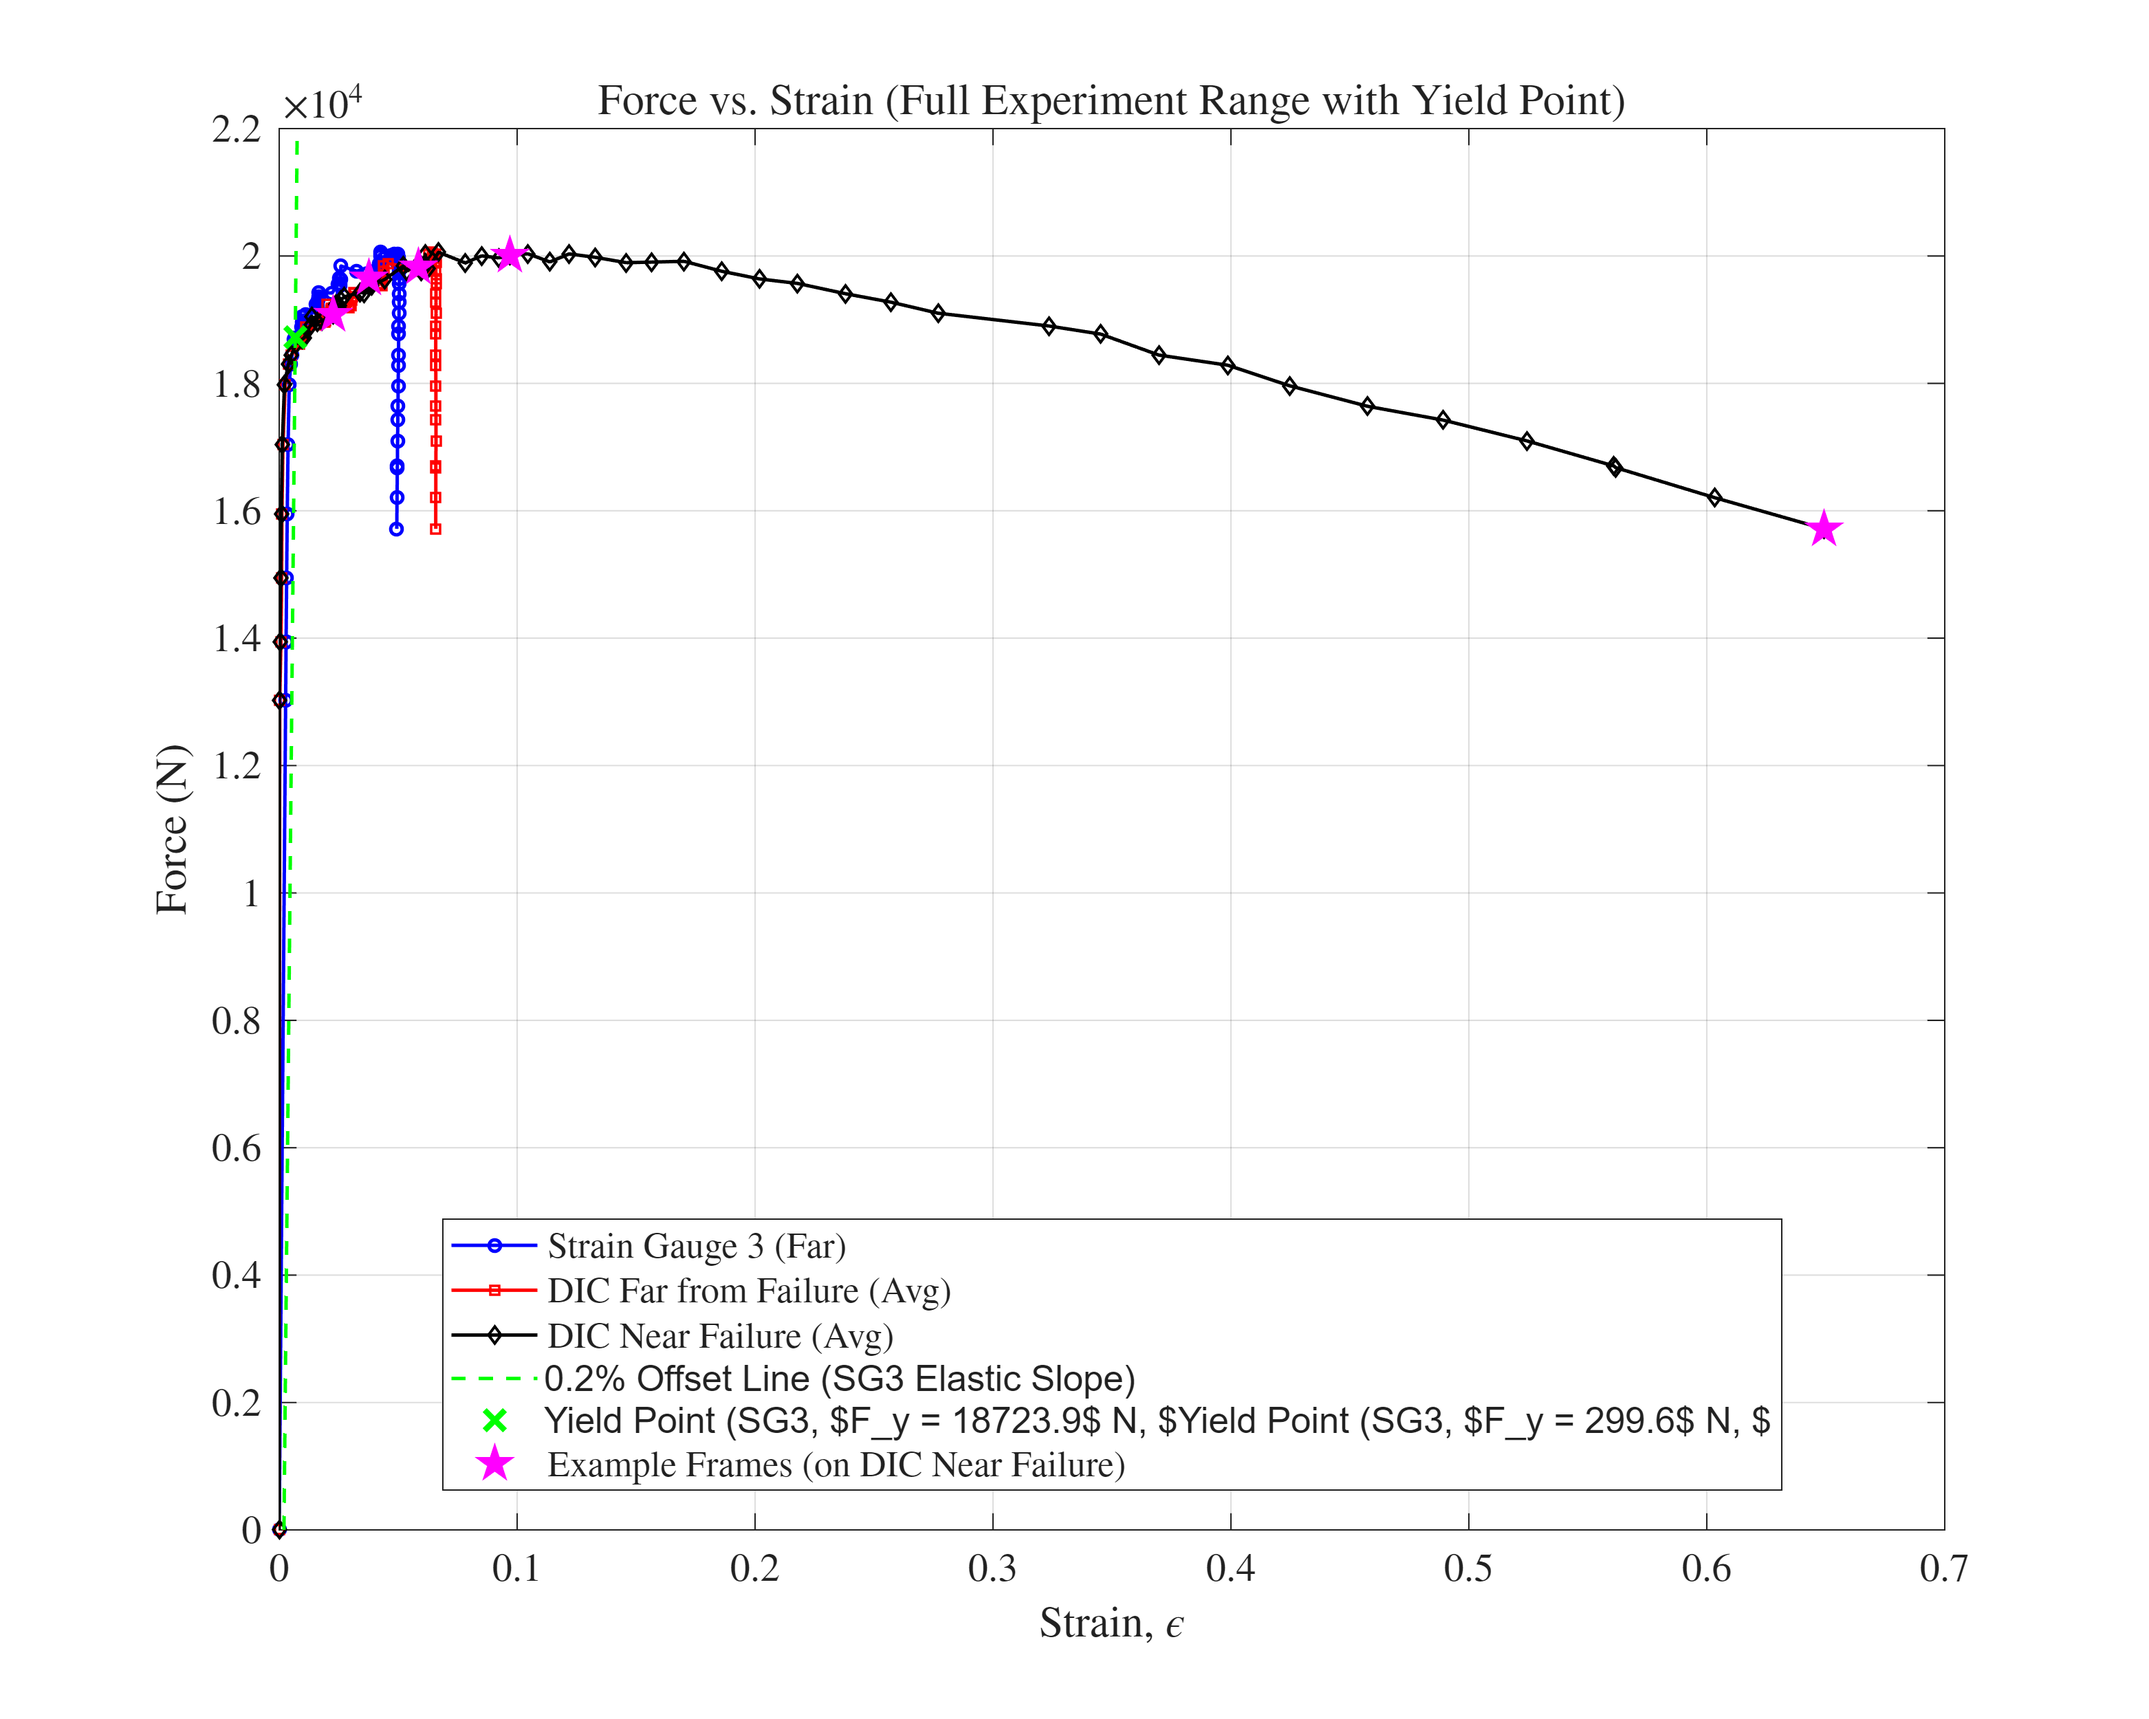
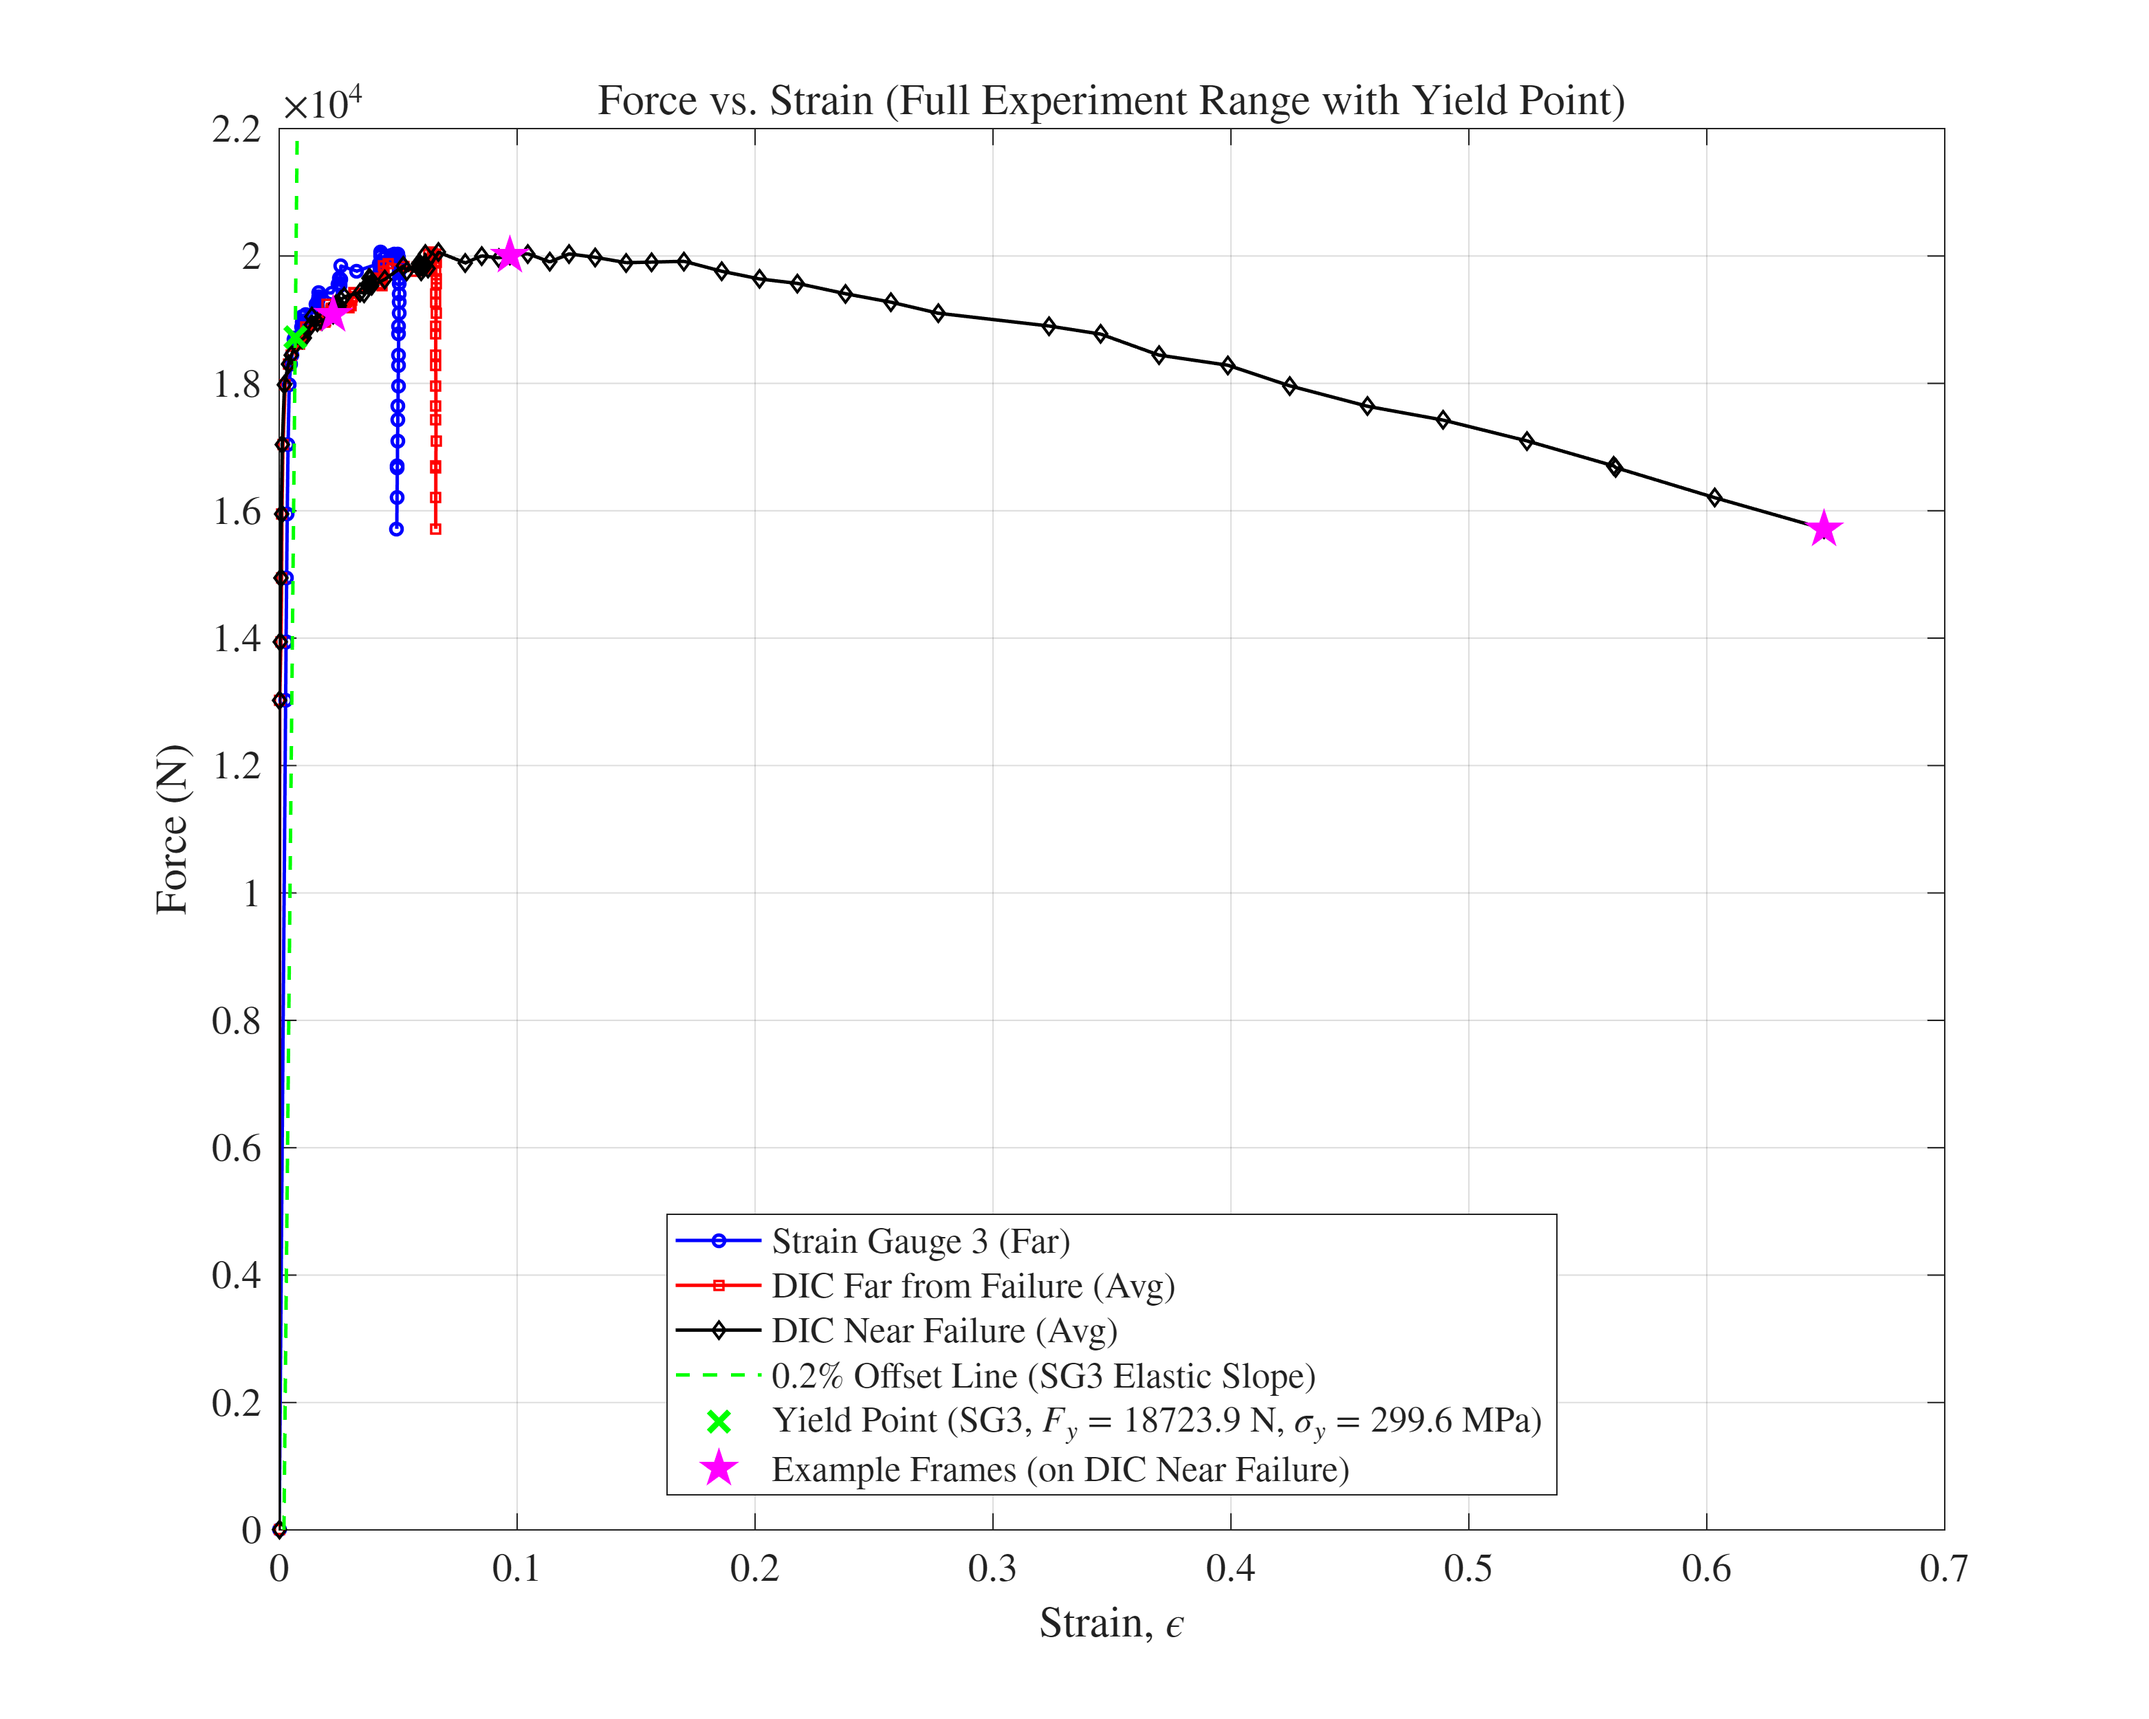
Refactor analyze_my_dogbone.m: streamline example indices, enhance plot labels with LaTeX formatting, and implement inset plot for force zoom in Figure 2. Update figures for improved clarity.

Changed region(s): [[0.2173, 0.7176, 0.8381, 0.8736], [0.1552, 0.156, 0.1862, 0.1872]]

diff --git a/Technion/LMA1/LMA1_L001/code/strains-2/analyze_my_dogbone.m b/Technion/LMA1/LMA1_L001/code/strains-2/analyze_my_dogbone.m
@@ -90,7 +90,7 @@ fprintf('Using average of Strain Gauge SG2 and SG3 for analysis in Part 1 & 2.\n
 
 % Print frame and load info for selected examples
 % USER ACTION: Adjust these indices if needed, ensure they are <= N_analysis
-example_indices = [3, 30, 60, 85, min(N_analysis,40), min(N_analysis,50)]; % Adjusted example indices
+example_indices = [3, 30, 60, 85]; % Adjusted example indices
 example_indices(example_indices > N_analysis) = []; % Remove indices out of bounds
 fprintf('\n--- Selected Frames and Corresponding Loads ---\n');
 if ~isempty(example_indices)
@@ -361,7 +361,7 @@ end
 figure; hold on; grid on; box on;
 % Plot force-strain data for the elastic region for Figure 1
 plot(strain_g_elastic, F_elastic, 'bo', 'MarkerSize', 4, 'DisplayName', 'Strain Gauge Data (Elastic)'); % Simplified name
-plot(strain_d_elastic, F_elastic, 'ro', 'MarkerSize', 4, 'DisplayName', 'DIC Data (Elastic, eyy avg)'); % Simplified name, assuming 'eyy' is fine, if not, remove too
+plot(strain_d_elastic, F_elastic, 'ro', 'MarkerSize', 4, 'DisplayName', 'DIC Data (Elastic, $\varepsilon_{yy}$ avg)'); % Simplified name, assuming 'eyy' is fine, if not, remove too
 
 % Plot the force-strain fit line based on the elastic region only for Figure 1
 % The legend will show E (from stress-strain), though plot shows dF/dEpsilon visually
@@ -380,10 +380,19 @@ if ~isempty(highlight_points_strain_g_elastic_fig1) && ~isempty(highlight_points
         'MarkerFaceColor', 'm', 'MarkerSize', 10, 'DisplayName', 'Example Frames');
 end
 
-xlabel('Strain, $\epsilon$','Interpreter','latex');
+xlabel('Strain, $\varepsilon$','Interpreter','latex');
 ylabel('Force (N)','Interpreter','latex');
 title(sprintf('Force vs. Strain (Elastic Region, $N_{elastic}=%d$)', N_elastic),'Interpreter','latex');
-legend('Location', 'best', 'Interpreter', 'latex');
+
+% Manually center the legend for Figure 1
+lgd1 = legend('show', 'Interpreter', 'latex'); % Create legend and get handle
+lgd1.Units = 'normalized'; % Ensure position is normalized to axes
+current_width_lgd1 = lgd1.Position(3);
+current_height_lgd1 = lgd1.Position(4);
+new_left_lgd1 = (1 - current_width_lgd1) / 2;
+new_bottom_lgd1 = (1 - current_height_lgd1) / 2;
+lgd1.Position = [new_left_lgd1, new_bottom_lgd1, current_width_lgd1, current_height_lgd1];
+
 set(gca, 'FontSize', 14);
 hold off;
 
@@ -657,7 +666,9 @@ else
     end
     % --- End Fig 2 DIC Near Highlight Prep ---
 
-    figure; hold on; grid on; box on;
+    figure; % Create Figure 2
+    fig2_handle = gcf; % Get handle immediately after creation
+    hold on; grid on; box on;
     
     % Plot the average strain gauge data from Part 1 (from which yield is determined) - REMOVED AS PER USER REQUEST
     % handle_avg_gauge_data_fig2 = [];
@@ -753,10 +764,13 @@ else
 
     % Plot 0.2% offset line and yield point if calculated (SG3 based)
     if ~isnan(F_yield_sg3_fig2) && ~isempty(epsilon_offset_line_sg3_fig2) && ~isempty(force_offset_line_sg3_fig2) && ~isnan(intersect_strain_sg3_fig2)
-        plot(epsilon_offset_line_sg3_fig2, force_offset_line_sg3_fig2, 'g--', 'LineWidth', 1.2, 'DisplayName', '0.2% Offset Line (SG3 Elastic Slope)');
+        plot(epsilon_offset_line_sg3_fig2, force_offset_line_sg3_fig2, 'g--', 'LineWidth', 1.2, 'DisplayName', '0.2\% Offset Line (SG3 Elastic Slope)');
         sigma_y_sg3_display_MPa = (F_yield_sg3_fig2 / A_m2) / 1e6;
+        fy_val_str_fig2 = sprintf('$F_y = %.1f$ N', F_yield_sg3_fig2);
+        sigmay_val_str_fig2 = sprintf('$\\sigma_y = %.1f$ MPa', sigma_y_sg3_display_MPa);
+        display_name_yield_fig2 = ['Yield Point (SG3, ', fy_val_str_fig2, ', ', sigmay_val_str_fig2, ')'];
         plot(intersect_strain_sg3_fig2, F_yield_sg3_fig2, 'gx', 'MarkerSize', 10, 'LineWidth', 2, ...
-             'DisplayName', sprintf('Yield Point (SG3, $F_y = %.1f$ N, $\sigma_y = %.1f$ MPa)', F_yield_sg3_fig2, sigma_y_sg3_display_MPa));
+             'DisplayName', display_name_yield_fig2);
     end
 
     % Plot highlighted example_indices for Figure 2 (on DIC Near Failure)
@@ -780,23 +794,101 @@ else
     set(gca, 'FontSize', 14);
     ylim([0 22000]); % Cap Y-axis as requested
 
-    % --- Create Inset Plot for Strain (0-0.1) Zoom, Dynamic Force --- 
-    % REMOVING ALL INSET CODE AS PER USER REQUEST - MOVING TO NEW FIGURE 3
-    % try 
-    %     ax_main = gca; 
-    %     inset_pos = [0.25, 0.55, 0.3, 0.3];
-    %     ax_inset = axes('Position', inset_pos);
-    %     % ... (all inset logic was here) ...
-    %     axes(ax_main); 
-    % catch ME_inset
-    %     fprintf(1, 'Warning: Could not create inset plot for Figure 2. Error: %s\n', ME_inset.message);
-    % end
-    % --- End Inset Plot ---
+    % --- Create Inset Plot for Force Zoom (14kN-20kN) ---
+    try
+        ax_main_fig2 = gca; % Get handle to main axes of Figure 2
+        inset_pos_fig2 = [0.25, 0.55, 0.35, 0.3]; % [left, bottom, width, height]
+        ax_inset_fig2 = axes(fig2_handle, 'Position', inset_pos_fig2);
+        hold(ax_inset_fig2, 'on');
+        grid(ax_inset_fig2, 'on');
+        box(ax_inset_fig2, 'on');
 
-    % --- Diagnostic print before inset --- (REMOVING AS INSET IS REMOVED)
-    % fprintf(1, '\n--- Data Ranges Before Inset Filtering (Figure 2) ---\n');
-    % % ... (diagnostic prints were here) ...
-    % fprintf(1, 'Inset Target: Strain [%.2f, %.2f], Force [Dynamic]\n', 0, 0.1);
+        force_zoom_min = 14000;
+        force_zoom_max = 20000;
+        all_strains_inset_fig2 = []; % To collect strains for dynamic X-axis
+
+        % 1. Strain Gauge 3 (Far)
+        if exist('sg3_plot_s2', 'var') && exist('F_plot_s2', 'var') && ~isempty(sg3_plot_s2)
+            idx_sg3_inset = (F_plot_s2 >= force_zoom_min & F_plot_s2 <= force_zoom_max);
+            if any(idx_sg3_inset)
+                plot(ax_inset_fig2, sg3_plot_s2(idx_sg3_inset), F_plot_s2(idx_sg3_inset), '-o', 'Color', 'b', 'MarkerSize', 3, 'LineWidth', 1);
+                all_strains_inset_fig2 = [all_strains_inset_fig2; sg3_plot_s2(idx_sg3_inset)];
+            end
+        end
+
+        % 2. DIC Far from Failure (Avg)
+        if exist('dic_far_plot_s2', 'var') && exist('F_plot_s2', 'var') && ~isempty(dic_far_plot_s2)
+            idx_dic_far_inset = (F_plot_s2 >= force_zoom_min & F_plot_s2 <= force_zoom_max);
+            if any(idx_dic_far_inset)
+                plot(ax_inset_fig2, dic_far_plot_s2(idx_dic_far_inset), F_plot_s2(idx_dic_far_inset), '-s', 'Color', 'r', 'MarkerSize', 3, 'LineWidth', 1);
+                all_strains_inset_fig2 = [all_strains_inset_fig2; dic_far_plot_s2(idx_dic_far_inset)];
+            end
+        end
+
+        % 3. DIC Near Failure (Avg)
+        if exist('dic_near_plot_s2', 'var') && exist('F_plot_s2', 'var') && ~isempty(dic_near_plot_s2)
+            idx_dic_near_inset = (F_plot_s2 >= force_zoom_min & F_plot_s2 <= force_zoom_max);
+            if any(idx_dic_near_inset)
+                plot(ax_inset_fig2, dic_near_plot_s2(idx_dic_near_inset), F_plot_s2(idx_dic_near_inset), '-d', 'Color', 'k', 'MarkerSize', 3, 'LineWidth', 1);
+                all_strains_inset_fig2 = [all_strains_inset_fig2; dic_near_plot_s2(idx_dic_near_inset)];
+            end
+        end
+
+        % 4. 0.2% Offset Line (SG3 Elastic Slope)
+        if exist('epsilon_offset_line_sg3_fig2', 'var') && exist('force_offset_line_sg3_fig2', 'var') && ~isempty(epsilon_offset_line_sg3_fig2)
+            idx_offset_inset = (force_offset_line_sg3_fig2 >= force_zoom_min & force_offset_line_sg3_fig2 <= force_zoom_max);
+            if any(idx_offset_inset)
+                % No DisplayName needed for inset plots usually, but if we add one, ensure % is escaped
+                plot(ax_inset_fig2, epsilon_offset_line_sg3_fig2(idx_offset_inset), force_offset_line_sg3_fig2(idx_offset_inset), 'g--', 'LineWidth', 1);
+                all_strains_inset_fig2 = [all_strains_inset_fig2; epsilon_offset_line_sg3_fig2(idx_offset_inset).']; % Ensure column vector
+            end
+        end
+
+        % 5. Yield Point (SG3)
+        if exist('F_yield_sg3_fig2', 'var') && exist('intersect_strain_sg3_fig2', 'var') && ~isnan(F_yield_sg3_fig2) && ~isnan(intersect_strain_sg3_fig2)
+            if (F_yield_sg3_fig2 >= force_zoom_min && F_yield_sg3_fig2 <= force_zoom_max)
+                plot(ax_inset_fig2, intersect_strain_sg3_fig2, F_yield_sg3_fig2, 'gx', 'MarkerSize', 8, 'LineWidth', 1.5);
+                all_strains_inset_fig2 = [all_strains_inset_fig2; intersect_strain_sg3_fig2];
+            end
+        end
+
+        % 6. Example Frames (on DIC Near Failure)
+        if exist('highlight_points_strain_dic_near_fig2', 'var') && exist('highlight_points_force_dic_near_fig2', 'var') && ~isempty(highlight_points_strain_dic_near_fig2)
+            idx_example_inset = (highlight_points_force_dic_near_fig2 >= force_zoom_min & highlight_points_force_dic_near_fig2 <= force_zoom_max);
+            if any(idx_example_inset)
+                plot(ax_inset_fig2, highlight_points_strain_dic_near_fig2(idx_example_inset), highlight_points_force_dic_near_fig2(idx_example_inset), 'mp', 'MarkerFaceColor', 'm', 'MarkerSize', 8);
+                all_strains_inset_fig2 = [all_strains_inset_fig2; highlight_points_strain_dic_near_fig2(idx_example_inset)];
+            end
+        end
+
+        % Set Inset Limits
+        ylim(ax_inset_fig2, [force_zoom_min force_zoom_max]);
+        if ~isempty(all_strains_inset_fig2)
+            min_strain_inset = min(all_strains_inset_fig2(isfinite(all_strains_inset_fig2)));
+            max_strain_inset = max(all_strains_inset_fig2(isfinite(all_strains_inset_fig2)));
+            if ~isempty(min_strain_inset) && ~isempty(max_strain_inset) && (min_strain_inset < max_strain_inset)
+                padding_strain_inset = (max_strain_inset - min_strain_inset) * 0.05;
+                xlim(ax_inset_fig2, [min_strain_inset - padding_strain_inset, max_strain_inset + padding_strain_inset]);
+            elseif ~isempty(min_strain_inset) % Only one point or all same strain
+                 xlim(ax_inset_fig2, [min_strain_inset - 0.001, min_strain_inset + 0.001]); % Default small range
+            end
+        end
+
+        xlabel(ax_inset_fig2, 'Strain, $\varepsilon$','Interpreter','latex');
+        ylabel(ax_inset_fig2, 'Force (N)');
+        title(ax_inset_fig2, 'Zoom: 14kN - 20kN');
+        set(ax_inset_fig2, 'FontSize', 10);
+
+        hold(ax_inset_fig2, 'off');
+        axes(ax_main_fig2); % Switch back to main axes
+
+    catch ME_inset_fig2
+        fprintf(1, 'Warning: Could not create inset plot for Figure 2. Error: %s\n', ME_inset_fig2.message);
+        if exist('ax_main_fig2', 'var') && ishandle(ax_main_fig2)
+            axes(ax_main_fig2); % Ensure main axes are active if error occurred
+        end
+    end
+    % --- End Inset Plot ---
 
     hold off;
 
